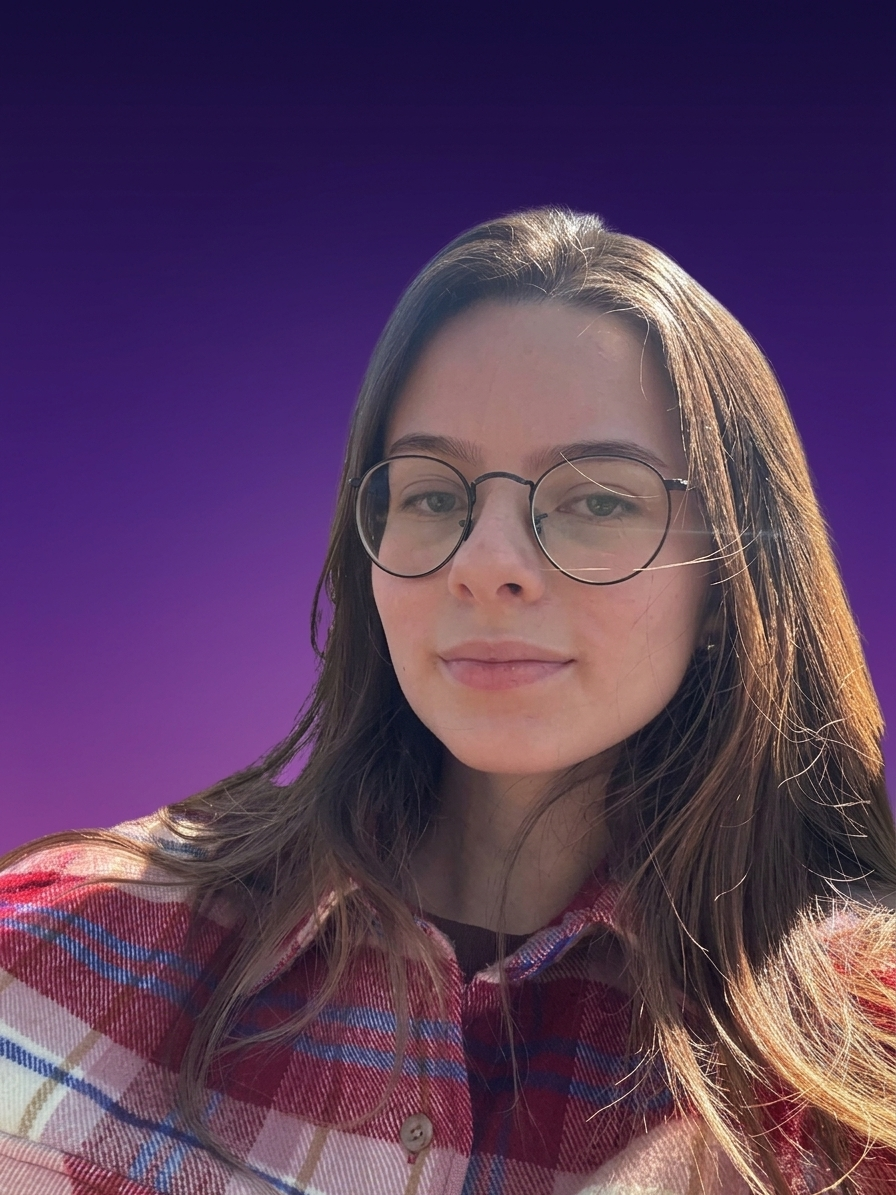
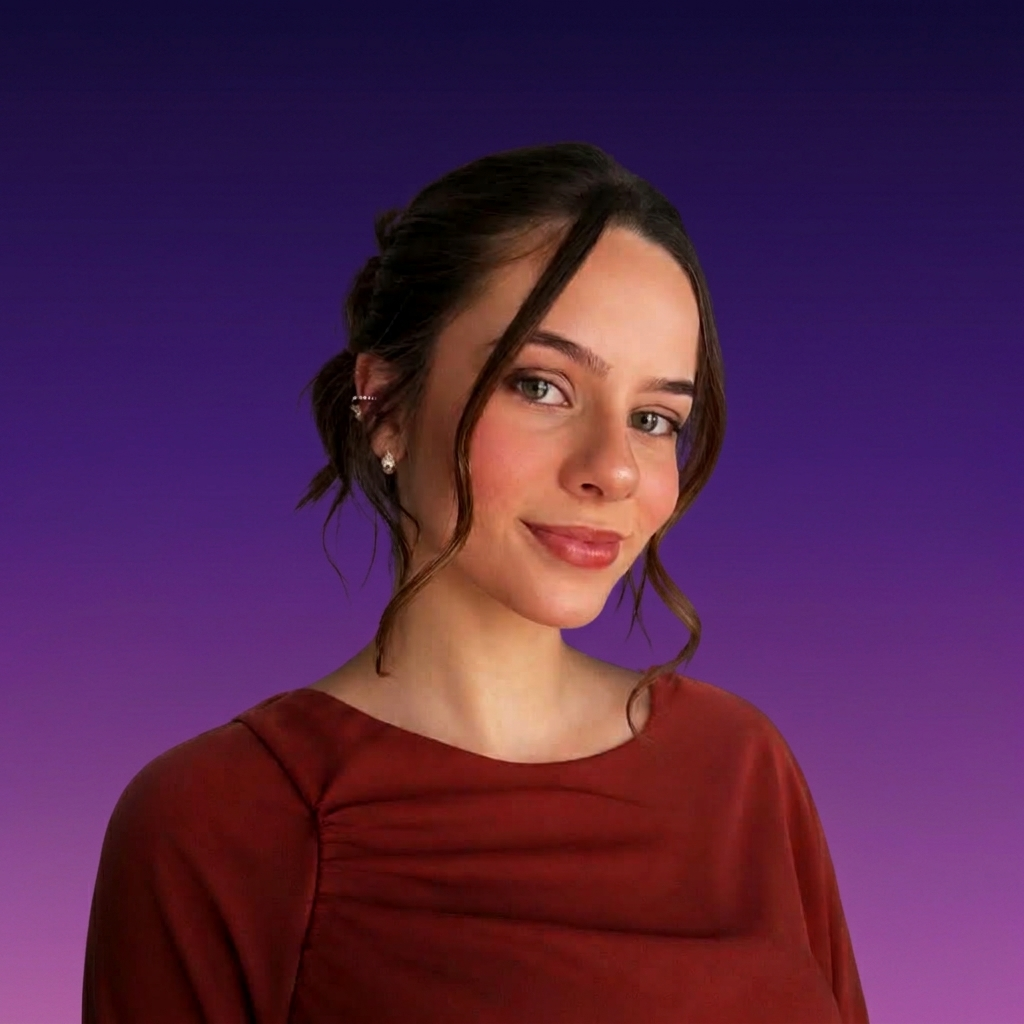
commit
style: sessão criadoras quase pronta, apenas ajustar foto isabela

diff --git a/index.html b/index.html
@@ -99,16 +99,98 @@
             </div>
         </section> <!--problema-->
 
-        <section class="solucao" style="background-color:#1B1721; min-height: 70vh; padding:60px 90px; color: white;">
+        <section class="solucao" style="background-color:#1B1721; min-height: 120vh; padding:60px 90px; color: white;">
             <p class="titulo-solucao" style="font-size: 3rem; color: white; font-weight: 600; margin-bottom:0; margin-left: 40%; margin-top: -2%; ">Nossa <span style="color:#AE8CDA;">Solução</span></p>
-            <div class="cards-solucao-esq">
+            <div class="cards-solucao-container" style="position: relative;">
+                <div class="cards-solucao-esq" style="background-color: aqua; width: 25%; height: auto; margin-left: 25%;">
+                    <div class="solucao-card1" style="width:350px; height: 200px; background: linear-gradient(to bottom left, #AE8CDA 0%, #876DA9 0%, #6D4A9B 17%, #3F0E83 100%); border-radius:20px; position: absolute; top:50px;">
+                        <div class="text-icon-solucao" style="width:100%; background-color: #876DA9; position: relative; margin:20px">
+                            <svg style="position: absolute; width:30px; height:30px;" xmlns="http://www.w3.org/2000/svg" width="24" height="24" viewBox="0 0 24 24" fill="none" stroke="currentColor" stroke-width="2" stroke-linecap="round" stroke-linejoin="round" class="lucide lucide-file-pen-line preview-icon"><path d="M14.364 13.634a2 2 0 0 0-.506.854l-.837 2.87a.5.5 0 0 0 .62.62l2.87-.837a2 2 0 0 0 .854-.506l4.013-4.009a1 1 0 0 0-3.004-3.004z"/><path d="M14.487 7.858A1 1 0 0 1 14 7V2"/><path d="M20 19.645V20a2 2 0 0 1-2 2H6a2 2 0 0 1-2-2V4a2 2 0 0 1 2-2h8a2.4 2.4 0 0 1 1.704.706l2.516 2.516"/><path d="M8 18h1"/></svg>
+                            <p style="position: absolute; font-size:1.1rem; left:40px; top:-12px">Cadastro de Disciplinas</p>
+                        </div>
+                        <div class="texto-solucao" style="font-size: 0.85rem; color: #C3C3C3; position: absolute; top:48px; margin:0px 20px">
+                            <p>Organize todas as suas matérias em um só lugar, com informações sobre horários, professores e conteúdos programáticos. Tenha uma visão completa do seu semestre sem precisar recorrer a cadernos ou planilhas separadas.</p>
+                        </div>
+                    </div>
+
+                    <div class="solucao-card2" style="width:350px; height: 200px; background: linear-gradient(to bottom left, #AE8CDA 0%, #876DA9 0%, #6D4A9B 17%, #3F0E83 100%); border-radius:20px; position: absolute; top:460px;">
+                        <div class="text-icon-solucao" style="width:100%; background-color: #876DA9; position: relative; margin:20px">
+                            <svg style="position: absolute; width:30px; height:30px;"xmlns="http://www.w3.org/2000/svg" width="24" height="24" viewBox="0 0 24 24" fill="none" stroke="currentColor" stroke-width="2" stroke-linecap="round" stroke-linejoin="round" class="lucide lucide-chart-no-axes-combined preview-icon"><path d="M12 16v5"/><path d="M16 14.639V21"/><path d="M20 10.656V21"/><path d="m22 3-8.646 8.646a.5.5 0 0 1-.708 0L9.354 8.354a.5.5 0 0 0-.707 0L2 15"/><path d="M4 18.463V21"/><path d="M8 14.656V21"/></svg>
+                            <p style="position: absolute; font-size:1.1rem; left:40px; top:-12px">Dashboard de Progresso</p>
+                        </div>
+                        <div class="texto-solucao" style="font-size: 0.85rem; color: #C3C3C3; position: absolute; top:48px; margin:0px 20px">
+                            <p>Acompanhe seu desempenho acadêmico através de gráficos e indicadores visuais que mostram sua evolução ao longo do semestre, ajudando a identificar pontos de atenção antes que virem problemas.</p>
+                        </div>
+                    </div>
+
+                    <div class="solucao-card3" style="width:350px; height: 200px; background: linear-gradient(to bottom left, #AE8CDA 0%, #876DA9 0%, #6D4A9B 17%, #3F0E83 100%); border-radius:20px; position: absolute; top:890px;">
+                        <div class="text-icon-solucao" style="width:100%; background-color: #876DA9; position: relative; margin:20px">
+                            <svg style="position: absolute; width:30px; height:30px;" xmlns="http://www.w3.org/2000/svg" width="24" height="24" viewBox="0 0 24 24" fill="none" stroke="currentColor" stroke-width="2" stroke-linecap="round" stroke-linejoin="round" class="lucide lucide-bell-ring preview-icon"><path d="M10.268 21a2 2 0 0 0 3.464 0"/><path d="M22 8c0-2.3-.8-4.3-2-6"/><path d="M3.262 15.326A1 1 0 0 0 4 17h16a1 1 0 0 0 .74-1.673C19.41 13.956 18 12.499 18 8A6 6 0 0 0 6 8c0 4.499-1.411 5.956-2.738 7.326"/><path d="M4 2C2.8 3.7 2 5.7 2 8"/></svg>
+                            <p style="position: absolute; font-size:1.1rem; left:40px; top:-12px">Lembretes Inteligentes</p>
+                        </div>
+                        <div class="texto-solucao" style="font-size: 0.85rem; color: #C3C3C3; position: absolute; top:48px; margin:0px 20px">
+                            <p>Receba notificações personalizadas sobre prazos que se aproximam, garantindo que nenhuma entrega ou avaliação passe despercebida em meio à correria do dia a dia.</p>
+                        </div>
+                    </div>
+                </div>
+                <div class="linha" style="width:3px; height: 1000px; background: linear-gradient(to bottom, #C9C3D2 0%, #AE8CDA 37%, #1B1721 100%); top:50px;left:50%; position: absolute; margin-left: 0; margin-right: 0;"></div>
                 
+                <div class="cards-solucao-dir" style="background-color: aqua; width: 25%; height: auto; margin-left:55% ;">
+                    <div class="solucao-card1" style="width:350px; height: 200px; background: linear-gradient(to bottom left, #AE8CDA 0%, #876DA9 0%, #6D4A9B 17%, #3F0E83 100%); border-radius:20px; position: absolute; top:250px;">
+                        <div class="text-icon-solucao" style="width:100%; background-color: #876DA9; position: relative; margin:20px">
+                            <svg style="position: absolute; width:30px; height:30px;" xmlns="http://www.w3.org/2000/svg" width="24" height="24" viewBox="0 0 24 24" fill="none" stroke="currentColor" stroke-width="2" stroke-linecap="round" stroke-linejoin="round" class="lucide lucide-calendar-days preview-icon"><path d="M8 2v3"/><path d="M16 2v3"/><rect x="3" y="3" width="18" height="18" rx="2"/><path d="M3 9h18"/><path d="M8 13h.01"/><path d="M12 13h.01"/><path d="M16 13h.01"/><path d="M8 17h.01"/><path d="M12 17h.01"/><path d="M16 17h.01"/></svg>
+                            <p style="position: absolute; font-size:1.1rem; left:40px; top:-12px"> Calendário Dinâmico</p>
+                        </div>
+                        <div class="texto-solucao" style="font-size: 0.85rem; color: #C3C3C3; position: absolute; top:48px; margin:0px 20px">
+                            <p>Organize todas as suas matérias em um só lugar, com informações sobre horários, professores e conteúdos programáticos. Tenha uma visão completa do seu semestre sem precisar recorrer a cadernos ou planilhas separadas.</p>
+                        </div>
+                    </div>
+
+                    <div class="solucao-card2" style="width:350px; height: 200px; background: linear-gradient(to bottom left, #AE8CDA 0%, #876DA9 0%, #6D4A9B 17%, #3F0E83 100%); border-radius:20px; position: absolute; top:670px;">
+                        <div class="text-icon-solucao" style="width:100%; background-color: #876DA9; position: relative; margin:20px">
+                            <svg style="position: absolute; width:30px; height:30px;" xmlns="http://www.w3.org/2000/svg" width="24" height="24" viewBox="0 0 24 24" fill="none" stroke="currentColor" stroke-width="2" stroke-linecap="round" stroke-linejoin="round" class="lucide lucide-book-open-check preview-icon"><path d="M12 5v16"/><path d="m16 12 2 2 4-4"/><path d="M22 6V5a2 2 0 00-1.999-2L16 3.002A5 5 0 0012 5a5 5 0 00-4-2H4a2 2 0 00-2 2v12a2 2 0 001.999 2H8a5 5 0 014 2 5 5 0 014-2h4.001A2 2 0 0022 17v-1.344"/></svg>
+                            <p style="position: absolute; font-size:1.1rem; left:40px; top:-12px">Priorização de Atividades</p>
+                        </div>
+                        <div class="texto-solucao" style="font-size: 0.85rem; color: #C3C3C3; position: absolute; top:48px; margin:0px 20px">
+                            <p>Organize todas as suas matérias em um só lugar, com informações sobre horários, professores e conteúdos programáticos. Tenha uma visão completa do seu semestre sem precisar recorrer a cadernos ou planilhas separadas.</p>
+                        </div>
+                    </div>
+
+                </div>
             </div>
-            <div class="linha" style="width:5px; height: 500px; background: linear-gradient(to bottom, #C9C3D2 0%, #AE8CDA 37%, #1B1721 100%) ;"></div>
         </section> <!--solucao-->
 
-        <section class="criadoras">
-
+        <section class="criadoras" style="background-color:#1B1721; min-height: 100vh; padding:60px 90px; color: white;">
+            <p style="font-size: 3rem; font-weight: 600; margin-left: 32%;">Criadoras do <span style="color: #AE8CDA; font-size: 3rem; font-weight: 600; margin-left: 0.3%;">StudyCore</span></p>
+            <div class="container-fotos" style="position: relative; left:50%; top:90px;transform: translateX(-50%); width:60%; background-color: #6D4A9B;">
+                <div class="kamilly" style="position: absolute;">
+                    <div class="container-img" style="width: 262px; height: 351px;">
+                        <img style="width:100%; height:100%; border-radius: 80px;"src="./assets/kamillyFoto.jpg" alt="">
+                    </div>
+                    <div class="informacoes" style="position: absolute; left:50%; transform: translateX(-50%); width:100%;">
+                        <p style="text-align: center; font-size: 1.3rem;">Kamilly Vitoria</p>
+                        <p style="text-align: center; margin-top: -10px; color: #C3C3C3;">Designer & Desenvolvedora</p>
+                    </div>
+                </div>
+                <div class="isabela" style="position: absolute; left:36%">
+                    <div class="container-img" style="width: 262px; height: 351px;">
+                        <img style="width:100%; height:100%; border-radius: 80px; background-size: cover; background-repeat: no-repeat;"src="./assets/isabelaFoto.jpg" alt="">
+                    </div>
+                    <div class="informacoes" style="position: absolute; left:50%; transform: translateX(-50%); width:100%;">
+                        <p style="text-align: center; font-size: 1.3rem;">Isabela Vasconcelos</p>
+                        <p style="text-align: center; margin-top: -10px; color: #C3C3C3;">Designer & Desenvolvedora</p>
+                    </div>
+                </div>
+                <div class="larissa" style="position: absolute; left: 72%">
+                    <div class="container-img" style="width: 262px; height: 351px;">
+                        <img style="width:100%; height:100%; border-radius: 80px;"src="./assets/larissaFoto.jpg" alt="">
+                    </div>
+                    <div class="informacoes" style="position: absolute; left:50%; transform: translateX(-50%); width:100%;">
+                        <p style="text-align: center; font-size: 1.3rem;">Larissa Alves</p>
+                        <p style="text-align: center; margin-top: -10px; color: #C3C3C3;">Designer & Desenvolvedora</p>
+                    </div>
+                </div>
+            </div>
         </section> <!--criadoras-->
 
     </main>
